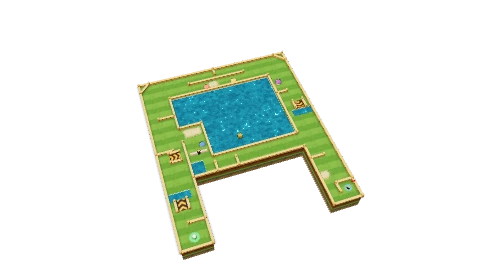
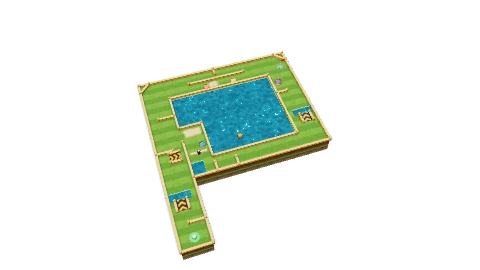
Templo de la Selva y Volcán: el hoyo pasa al fondo a la derecha para que los tres caminos valgan
Templo: hoyo en la esquina de arriba a la derecha, sin el tramo final de abajo;
la rampa del salto de agua derecho ahora salta subiendo. Mínimos 4/5/4, par 10.
Volcán: hoyo al fondo a la derecha, la rampa del brazo derecho salta bajando;
los tres caminos salen en 3 jugando perfecto. Rivales y vistas previas al día.

Claude-Session: https://claude.ai/code/session_013Jq3YxprN1kmRDhhHgCseE

Changed region(s): [[0.625, 0.5037, 0.7812, 0.8], [0.5938, 0.3556, 0.6562, 0.4741], [0.5625, 0.2074, 0.5938, 0.2667]]

diff --git a/src/game/courses.js b/src/game/courses.js
@@ -38,9 +38,12 @@ function ramp({ x, z, w = 1.7, d = 1.6, dir = [0, -1], h = 0.32, lift = 0.42, ma
 // tubo de lava que cae dentro, a una cámara en U con lava en medio. Al caer la
 // bola queda entre dos rampas: la de delante salta el río del brazo izquierdo
 // (el camino largo, por abajo) y la de la derecha cruza la U de un salto (atajo).
+// El hoyo está al fondo a la derecha: por abajo se llega rodeando la curva de la
+// U; por el atajo hay que bajar el brazo derecho saltando (o esquivando) su río.
+// Jugando perfecto, los tres caminos (rampa, puente de roca y atajo) salen en 3.
 const VOLCANO_RAMP_A = ramp({ x: -3.4, z: 4.2 });
 const VOLCANO_SHORTCUT = ramp({ x: -2.15, z: 6.2, w: 1.6, d: 1.7, dir: [1, 0] });
-const VOLCANO_RAMP_B = ramp({ x: 3.4, z: -4.6, dir: [0, 1] });
+const VOLCANO_RAMP_B = ramp({ x: 3.4, z: -1.4 });
 
 // El Abismo: dos agujeros de pared a pared; cada uno se salta desde su rampa
 const ABYSS_RAMP_A = ramp({ x: -1.3, z: 7.2, w: 1.4 });
@@ -67,13 +70,14 @@ const MILL_CYBER = windmill({ x: 2.2, z: -5.0, w: 1.0, depth: 1.4, left: 0.4, ri
 // - saltar la escuadra de la calzada con la rampa: cae junto a la charca del
 //   sendero, solo bien medido se libra del agua. La rampa frena (maxV): ni a
 //   tope pasa del puente, así que no ahorra más de un golpe.
-// Jugando perfecto: 6 golpes por la U, 5 por el sendero y 5 saltando
+// Jugando perfecto: 4 golpes por arriba, 5 por el sendero y 4 saltando
 // (scripts/route-planner.mjs).
-// Al final, el rincón del hoyo se entra por un hueco de abajo.
+// El hoyo está al fondo a la derecha, al final del templo: la U llega por
+// arriba y el sendero, tras el puente, sube por la bajada derecha.
 // water: es como la lava (vuelves al sitio del golpe), pero se ve agua. Nada
 // toca el contorno: el agua se recorta en el césped y tiene que quedar dentro.
 const JUNGLE_JUMP_W1 = ramp({ x: -10.4, z: 7.95, w: 1.6, d: 1.5 });
-const JUNGLE_JUMP_W2 = ramp({ x: 10.4, z: -2.95, w: 1.6, d: 1.5, dir: [0, 1] });
+const JUNGLE_JUMP_W2 = ramp({ x: 10.4, z: -0.25, w: 1.6, d: 1.5 });
 const JUNGLE_CORNER_L = ramp({ x: -9.6, z: 0.6, w: 1.5, d: 1.5, dir: [1, 0], maxV: 7.5 });
 const waterBox = (x0, x1, z0, z1, flow) => ({ poly: [[x0, z0], [x1, z0], [x1, z1], [x0, z1]], flow, water: true });
 
@@ -278,7 +282,7 @@ export const COURSES = [
     par: 5,
     theme: 'caldera',
     tee: [-3.4, 26],
-    cup: [4.2, 2],
+    cup: [4.8, -10.2],
     // la cámara de magma en U (dentro del volcán)
     outline: [[-5.4, 10], [5.4, 10], [6.4, 9], [6.4, -11], [5.4, -12], [-5.4, -12], [-6.4, -11], [-6.4, 9]],
     // el sendero de fuera, en la ladera, 4 m por encima del suelo de la cámara
@@ -287,7 +291,7 @@ export const COURSES = [
     bumpers: [
       { x: -2.6, z: 23.2, r: 0.32 },
       { x: -4.4, z: -6.4, r: 0.4 },
-      { x: 4.6, z: -9.2, r: 0.38 },
+      { x: 3.3, z: -9.2, r: 0.38 },
       { x: 5.6, z: 6.4, r: 0.36 },
     ],
     sand: [],
@@ -315,7 +319,7 @@ export const COURSES = [
       { poly: [[1.6, 4.6], [2.4, 4.8], [2.9, 4.2], [2.7, 3.4], [2, 3.2], [1.5, 3.7]], flow: [0, -1] },
     ],
     // los rivales cogen el atajo
-    waypoints: [[-3.4, 17.2], [3.6, 6.2]],
+    waypoints: [[-3.4, 17.2], [3.6, 6.2], [5.75, -1.2], [5.75, -5]],
   },
   {
     name: 'El Molino del Prado',
@@ -393,18 +397,18 @@ export const COURSES = [
   },
   {
     name: 'El Templo de la Selva',
-    tip: 'Tres caminos: la U entera, el sendero del puente o saltar la escuadra de la calzada. Llega suave: si vas fuerte la bola rebota en el borde del hoyo',
-    par: 12,
+    tip: 'El hoyo está al fondo a la derecha. Tres caminos: por arriba cruzando el templo, por el sendero y el puente, o saltando la escuadra de la calzada. Llega suave: si vas fuerte la bola rebota en el borde del hoyo',
+    par: 10,
     maxStrokes: 20,
     theme: 'jungle',
     // hoyo con borde: la bola cae en la boca y, si va fuerte, choca con el canto y se sale
     realCup: true,
     tee: [-10, 12.6],
-    cup: [10.9, 12.3],
+    cup: [10.6, -11.2],
     // la U: calzada izquierda (x -12..-8), templo arriba (z -14..-10) y bajada
     // derecha (x 8..12) hasta el rincón del hoyo; el sendero (x -8..-4.6) y el
     // puente (z 2..4.5) rodean la laguna, encerrada por muros
-    outline: [[-12, 14], [-12, -14], [12, -14], [12, 14], [8, 14], [8, 4.5], [-8, 4.5], [-8, 14]],
+    outline: [[-12, 14], [-12, -14], [12, -14], [12, 4.5], [-8, 4.5], [-8, 14]],
     walls: [
       // la laguna del centro
       [[-8, -4], [-8, -10]], [[-8, -10], [8, -10]], [[8, -10], [8, 2]], [[8, 2], [-4.6, 2]],
@@ -415,9 +419,6 @@ export const COURSES = [
       // primera, la segunda frena la bola)
       [[-4.6, 4.5], [-4.6, 3.1]],
       [[-1.6, 4.5], [-1.6, 3.1]],
-      // el rincón del hoyo: se entra por abajo, por el hueco junto al muro de fuera
-      [[9.6, 11.2], [12, 11.2]],
-      [[9.6, 11.2], [9.6, 12.6]],
       // el templo de arriba: una isla parte la galería en dos caminos
       [[-4.5, -12], [4.5, -12]],
       // escuadras en diagonal en las esquinas de arriba
@@ -428,7 +429,6 @@ export const COURSES = [
       [[-8, -6.5], [-10.4, -6.5]],
       [[0, -14], [0, -12.9]],
       [[8, -6], [9.6, -6]],
-      [[8, 6.6], [10, 6.6]],
       ...JUNGLE_JUMP_W1.walls,
       ...JUNGLE_JUMP_W2.walls,
       ...JUNGLE_CORNER_L.walls,
@@ -442,7 +442,6 @@ export const COURSES = [
     sand: [
       { x: -6.3, z: -2.9, w: 2.4, d: 1.4 },
       { x: -0.8, z: -11, w: 1.4, d: 1.2 },
-      { x: 8.8, z: 9.6, w: 1.2, d: 1.2 },
     ],
     spinners: [{ x: -6.3, z: 0.9, len: 2.4, speed: 1.3 }],
     movers: [
@@ -463,8 +462,7 @@ export const COURSES = [
     ],
     waypoints: [
       [-11, 10], [-10.4, 9.6], [-10.4, 5.2], [-8.45, 2.6], [-8.45, -1.6], [-11.3, -6],
-      [-11.2, -7.8], [-10, -11.5], [-5, -11.5], [5, -11.5], [10, -11.5], [11, -9], [10.4, -6.6], [10.4, 0.4],
-      [11, 5.5], [11, 8], [8.8, 10.4], [8.9, 13.5],
+      [-11.2, -7.8], [-10, -11.5], [-5, -11.5], [5, -11.5],
     ],
   },
   {

diff --git a/supabase/functions/submit-hole/game/courses.js b/supabase/functions/submit-hole/game/courses.js
@@ -38,9 +38,12 @@ function ramp({ x, z, w = 1.7, d = 1.6, dir = [0, -1], h = 0.32, lift = 0.42, ma
 // tubo de lava que cae dentro, a una cámara en U con lava en medio. Al caer la
 // bola queda entre dos rampas: la de delante salta el río del brazo izquierdo
 // (el camino largo, por abajo) y la de la derecha cruza la U de un salto (atajo).
+// El hoyo está al fondo a la derecha: por abajo se llega rodeando la curva de la
+// U; por el atajo hay que bajar el brazo derecho saltando (o esquivando) su río.
+// Jugando perfecto, los tres caminos (rampa, puente de roca y atajo) salen en 3.
 const VOLCANO_RAMP_A = ramp({ x: -3.4, z: 4.2 });
 const VOLCANO_SHORTCUT = ramp({ x: -2.15, z: 6.2, w: 1.6, d: 1.7, dir: [1, 0] });
-const VOLCANO_RAMP_B = ramp({ x: 3.4, z: -4.6, dir: [0, 1] });
+const VOLCANO_RAMP_B = ramp({ x: 3.4, z: -1.4 });
 
 // El Abismo: dos agujeros de pared a pared; cada uno se salta desde su rampa
 const ABYSS_RAMP_A = ramp({ x: -1.3, z: 7.2, w: 1.4 });
@@ -67,13 +70,14 @@ const MILL_CYBER = windmill({ x: 2.2, z: -5.0, w: 1.0, depth: 1.4, left: 0.4, ri
 // - saltar la escuadra de la calzada con la rampa: cae junto a la charca del
 //   sendero, solo bien medido se libra del agua. La rampa frena (maxV): ni a
 //   tope pasa del puente, así que no ahorra más de un golpe.
-// Jugando perfecto: 6 golpes por la U, 5 por el sendero y 5 saltando
+// Jugando perfecto: 4 golpes por arriba, 5 por el sendero y 4 saltando
 // (scripts/route-planner.mjs).
-// Al final, el rincón del hoyo se entra por un hueco de abajo.
+// El hoyo está al fondo a la derecha, al final del templo: la U llega por
+// arriba y el sendero, tras el puente, sube por la bajada derecha.
 // water: es como la lava (vuelves al sitio del golpe), pero se ve agua. Nada
 // toca el contorno: el agua se recorta en el césped y tiene que quedar dentro.
 const JUNGLE_JUMP_W1 = ramp({ x: -10.4, z: 7.95, w: 1.6, d: 1.5 });
-const JUNGLE_JUMP_W2 = ramp({ x: 10.4, z: -2.95, w: 1.6, d: 1.5, dir: [0, 1] });
+const JUNGLE_JUMP_W2 = ramp({ x: 10.4, z: -0.25, w: 1.6, d: 1.5 });
 const JUNGLE_CORNER_L = ramp({ x: -9.6, z: 0.6, w: 1.5, d: 1.5, dir: [1, 0], maxV: 7.5 });
 const waterBox = (x0, x1, z0, z1, flow) => ({ poly: [[x0, z0], [x1, z0], [x1, z1], [x0, z1]], flow, water: true });
 
@@ -278,7 +282,7 @@ export const COURSES = [
     par: 5,
     theme: 'caldera',
     tee: [-3.4, 26],
-    cup: [4.2, 2],
+    cup: [4.8, -10.2],
     // la cámara de magma en U (dentro del volcán)
     outline: [[-5.4, 10], [5.4, 10], [6.4, 9], [6.4, -11], [5.4, -12], [-5.4, -12], [-6.4, -11], [-6.4, 9]],
     // el sendero de fuera, en la ladera, 4 m por encima del suelo de la cámara
@@ -287,7 +291,7 @@ export const COURSES = [
     bumpers: [
       { x: -2.6, z: 23.2, r: 0.32 },
       { x: -4.4, z: -6.4, r: 0.4 },
-      { x: 4.6, z: -9.2, r: 0.38 },
+      { x: 3.3, z: -9.2, r: 0.38 },
       { x: 5.6, z: 6.4, r: 0.36 },
     ],
     sand: [],
@@ -315,7 +319,7 @@ export const COURSES = [
       { poly: [[1.6, 4.6], [2.4, 4.8], [2.9, 4.2], [2.7, 3.4], [2, 3.2], [1.5, 3.7]], flow: [0, -1] },
     ],
     // los rivales cogen el atajo
-    waypoints: [[-3.4, 17.2], [3.6, 6.2]],
+    waypoints: [[-3.4, 17.2], [3.6, 6.2], [5.75, -1.2], [5.75, -5]],
   },
   {
     name: 'El Molino del Prado',
@@ -393,18 +397,18 @@ export const COURSES = [
   },
   {
     name: 'El Templo de la Selva',
-    tip: 'Tres caminos: la U entera, el sendero del puente o saltar la escuadra de la calzada. Llega suave: si vas fuerte la bola rebota en el borde del hoyo',
-    par: 12,
+    tip: 'El hoyo está al fondo a la derecha. Tres caminos: por arriba cruzando el templo, por el sendero y el puente, o saltando la escuadra de la calzada. Llega suave: si vas fuerte la bola rebota en el borde del hoyo',
+    par: 10,
     maxStrokes: 20,
     theme: 'jungle',
     // hoyo con borde: la bola cae en la boca y, si va fuerte, choca con el canto y se sale
     realCup: true,
     tee: [-10, 12.6],
-    cup: [10.9, 12.3],
+    cup: [10.6, -11.2],
     // la U: calzada izquierda (x -12..-8), templo arriba (z -14..-10) y bajada
     // derecha (x 8..12) hasta el rincón del hoyo; el sendero (x -8..-4.6) y el
     // puente (z 2..4.5) rodean la laguna, encerrada por muros
-    outline: [[-12, 14], [-12, -14], [12, -14], [12, 14], [8, 14], [8, 4.5], [-8, 4.5], [-8, 14]],
+    outline: [[-12, 14], [-12, -14], [12, -14], [12, 4.5], [-8, 4.5], [-8, 14]],
     walls: [
       // la laguna del centro
       [[-8, -4], [-8, -10]], [[-8, -10], [8, -10]], [[8, -10], [8, 2]], [[8, 2], [-4.6, 2]],
@@ -415,9 +419,6 @@ export const COURSES = [
       // primera, la segunda frena la bola)
       [[-4.6, 4.5], [-4.6, 3.1]],
       [[-1.6, 4.5], [-1.6, 3.1]],
-      // el rincón del hoyo: se entra por abajo, por el hueco junto al muro de fuera
-      [[9.6, 11.2], [12, 11.2]],
-      [[9.6, 11.2], [9.6, 12.6]],
       // el templo de arriba: una isla parte la galería en dos caminos
       [[-4.5, -12], [4.5, -12]],
       // escuadras en diagonal en las esquinas de arriba
@@ -428,7 +429,6 @@ export const COURSES = [
       [[-8, -6.5], [-10.4, -6.5]],
       [[0, -14], [0, -12.9]],
       [[8, -6], [9.6, -6]],
-      [[8, 6.6], [10, 6.6]],
       ...JUNGLE_JUMP_W1.walls,
       ...JUNGLE_JUMP_W2.walls,
       ...JUNGLE_CORNER_L.walls,
@@ -442,7 +442,6 @@ export const COURSES = [
     sand: [
       { x: -6.3, z: -2.9, w: 2.4, d: 1.4 },
       { x: -0.8, z: -11, w: 1.4, d: 1.2 },
-      { x: 8.8, z: 9.6, w: 1.2, d: 1.2 },
     ],
     spinners: [{ x: -6.3, z: 0.9, len: 2.4, speed: 1.3 }],
     movers: [
@@ -463,8 +462,7 @@ export const COURSES = [
     ],
     waypoints: [
       [-11, 10], [-10.4, 9.6], [-10.4, 5.2], [-8.45, 2.6], [-8.45, -1.6], [-11.3, -6],
-      [-11.2, -7.8], [-10, -11.5], [-5, -11.5], [5, -11.5], [10, -11.5], [11, -9], [10.4, -6.6], [10.4, 0.4],
-      [11, 5.5], [11, 8], [8.8, 10.4], [8.9, 13.5],
+      [-11.2, -7.8], [-10, -11.5], [-5, -11.5], [5, -11.5],
     ],
   },
   {

diff --git a/tests/course-preview.test.js b/tests/course-preview.test.js
@@ -15,7 +15,7 @@ test('cálculo de distancia tee-hoyo para todos los mapas', () => {
   // Verificar que todos los hoyos tienen distancias positivas y coherentes
   for (let i = 0; i < COURSES.length; i++) {
     const dist = getCourseDistance(COURSES[i]);
-    assert.ok(typeof dist === 'number' && dist >= 4 && dist < 35, `distancia de hoyo ${i + 1} debe ser coherente: ${dist}m`);
+    assert.ok(typeof dist === 'number' && dist >= 4 && dist < 45, `distancia de hoyo ${i + 1} debe ser coherente: ${dist}m`);
   }
 });
 
